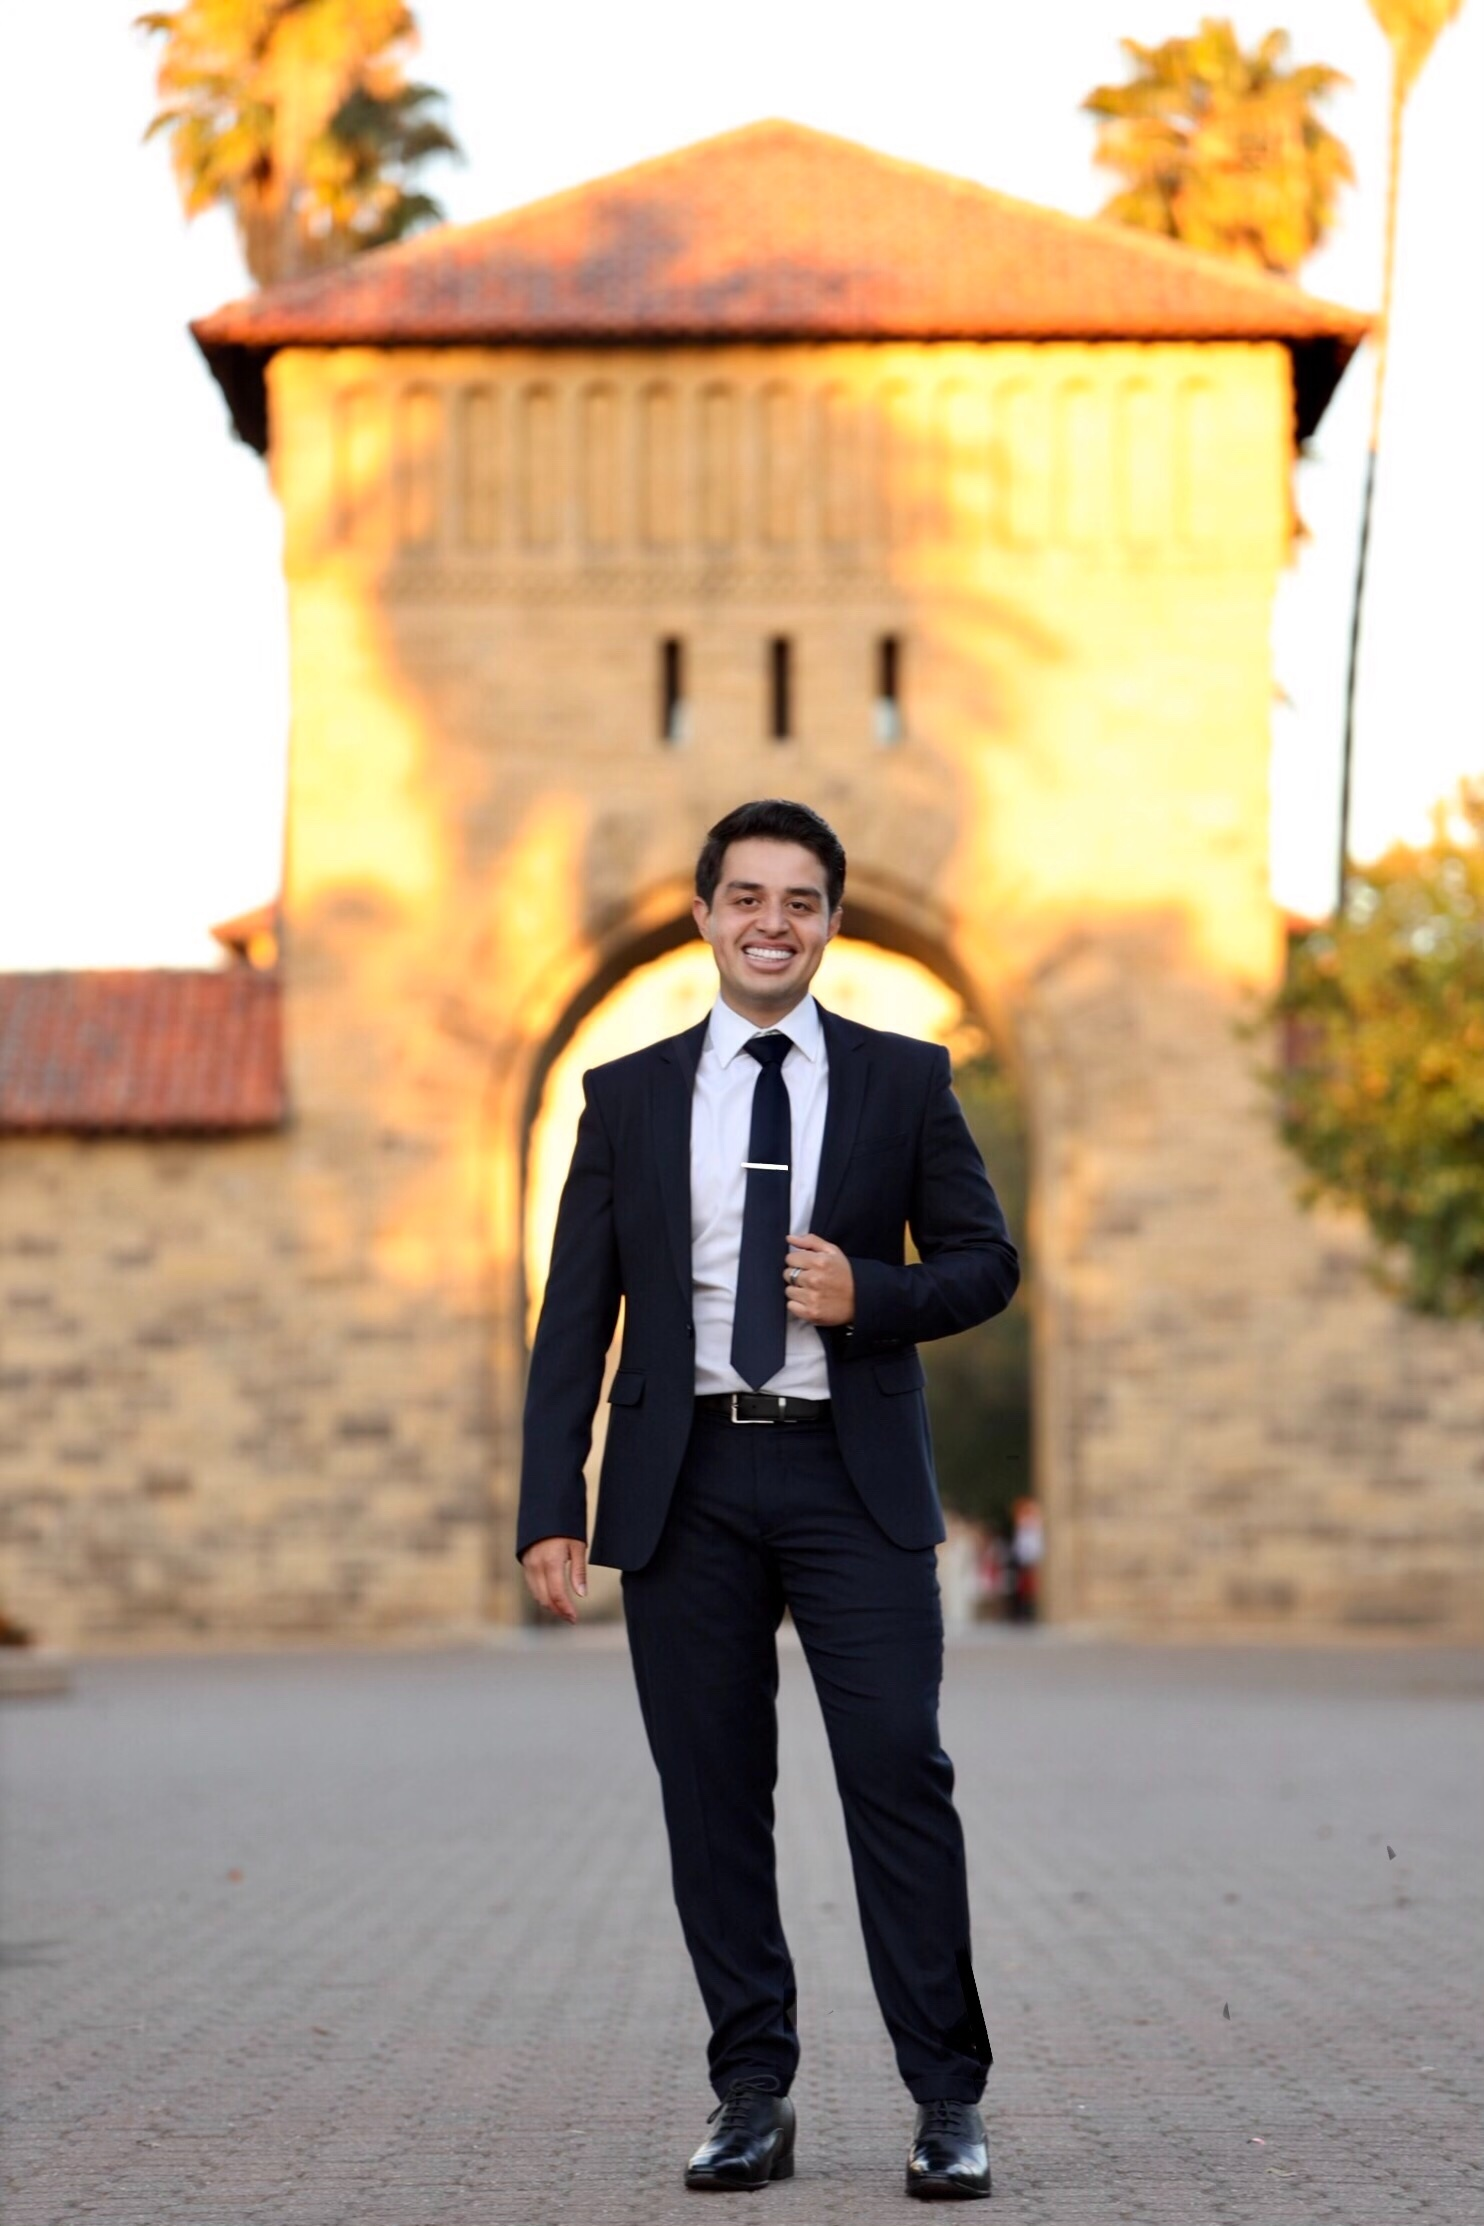
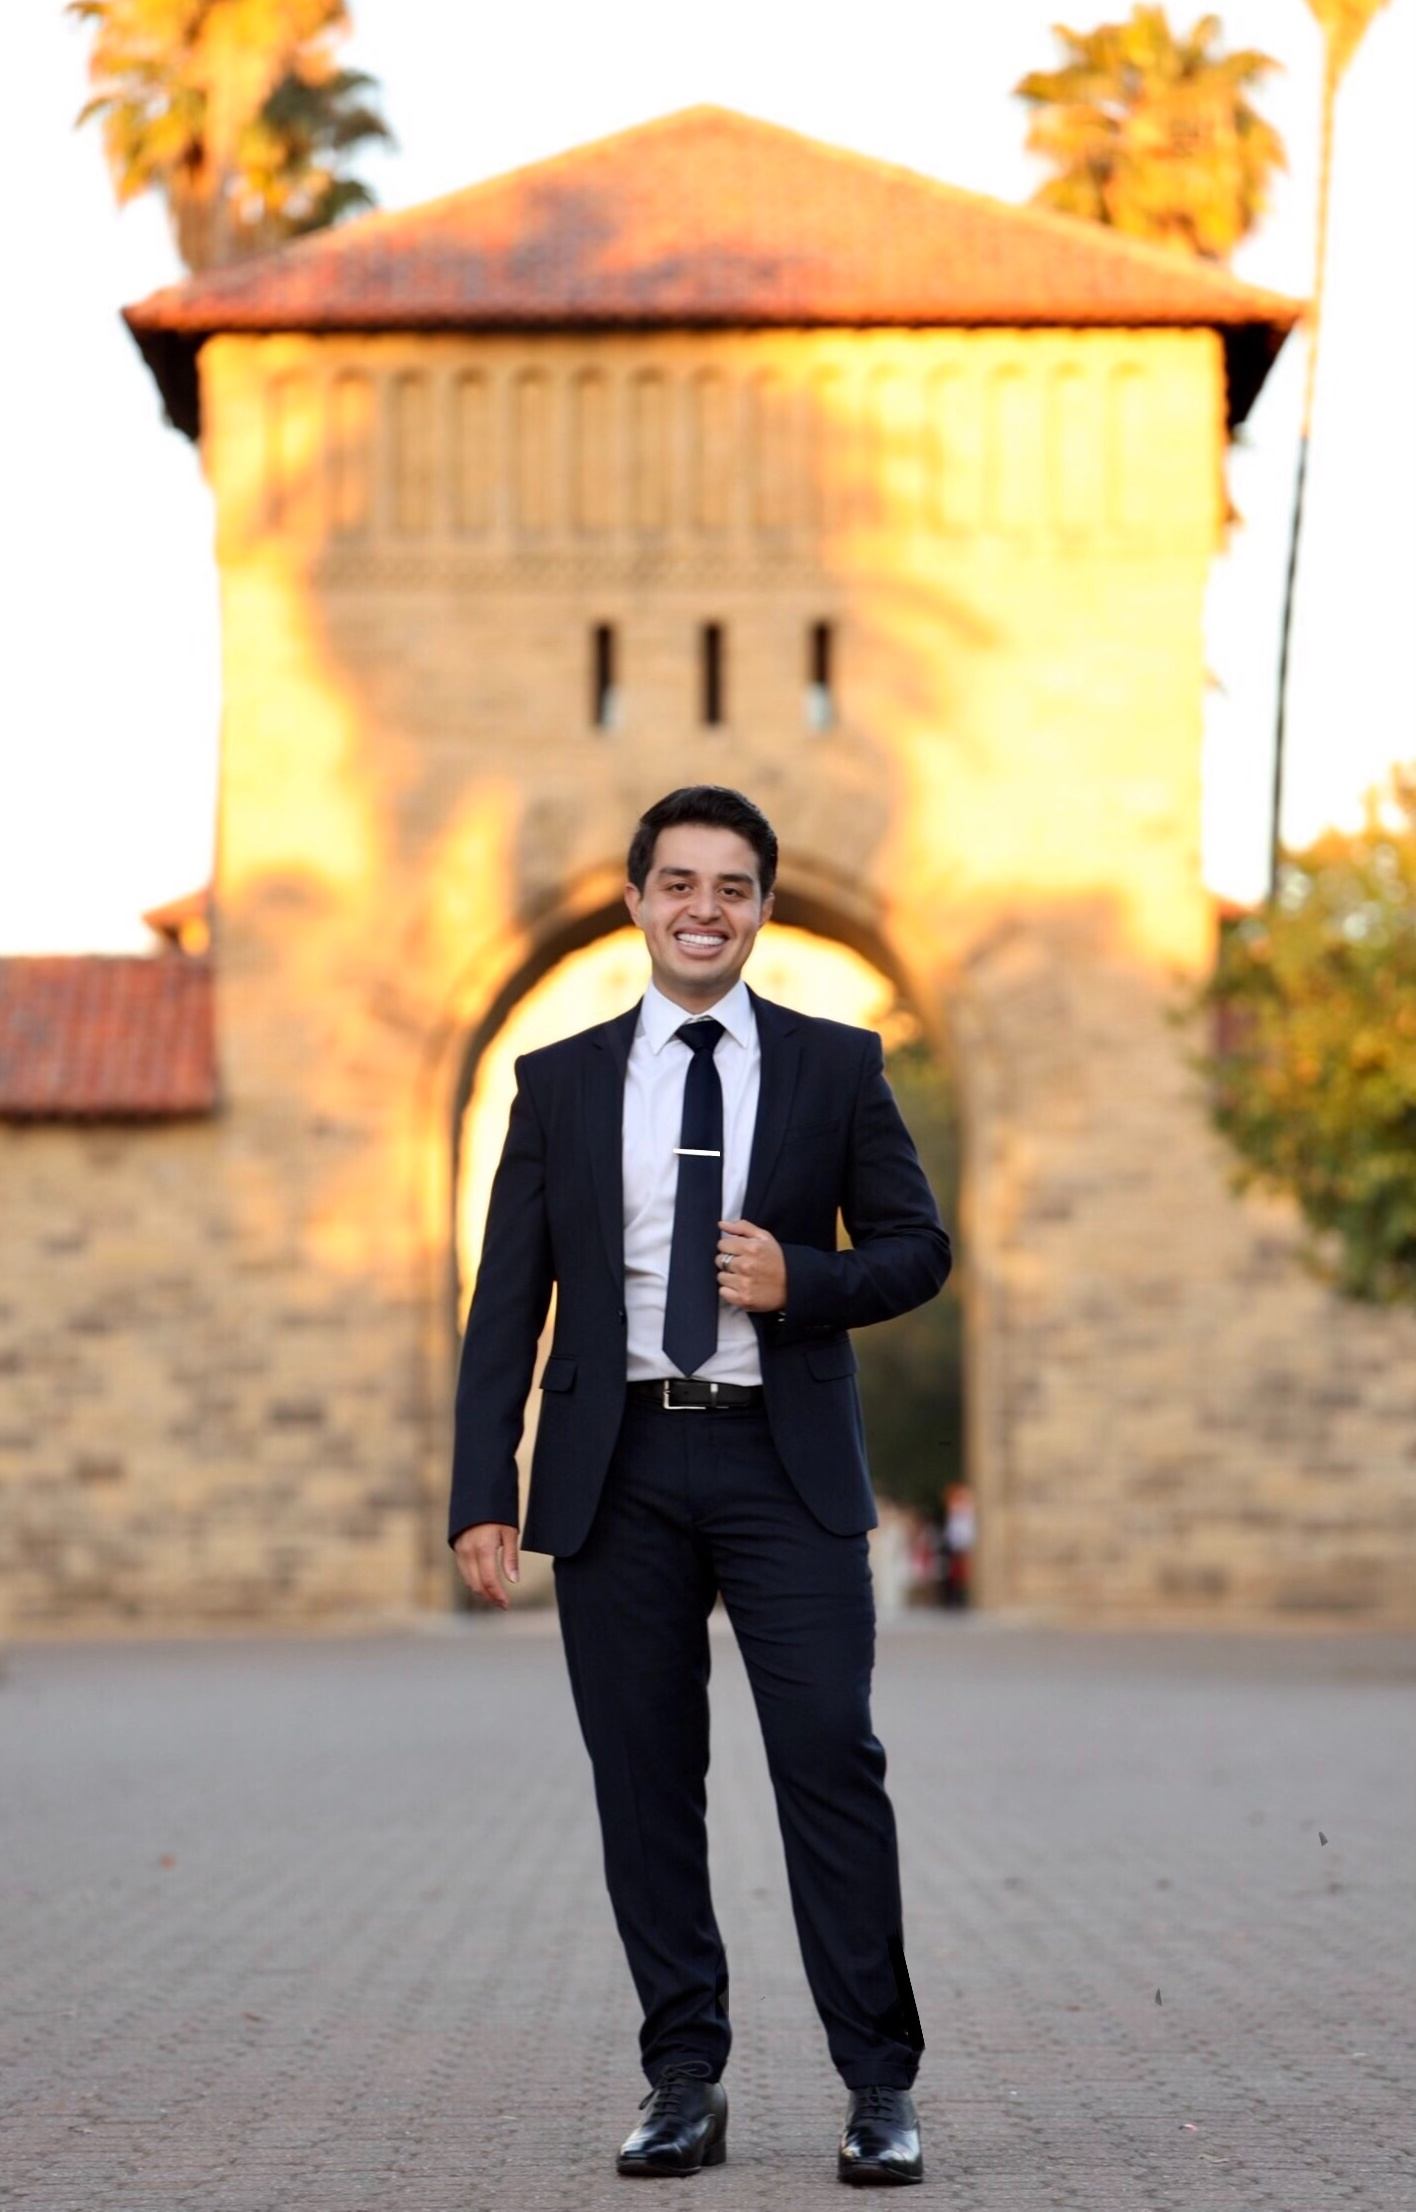
About Me Page Updates

diff --git a/index.html b/index.html
@@ -24,7 +24,7 @@
 							<section class="panel banner right">
 								<div class="content color0 span-3-75">
 									<h1 class="major">Hello, my name is<br/>
-									Gabriel Perez</h1>
+									Gabriel Perez!</h1>
 									<p>I am a <strong>Mechanical Engineer</strong>, with a passion for designing <strong>Robots</strong> and <strong> Autonomous Systems</strong> . Keep scrolling to learn a little bit more about me :)</p>
 									<ul class="actions">
 										<li><a href="#first" class="button primary color1 circle icon solid fa-angle-right">Next</a></li>
@@ -38,11 +38,16 @@
 						<!-- Panel (Spotlight) -->
 							<section class="panel spotlight medium right" id="first">
 								<div class="content span-7">
-									<h2 class="major">Sed etiam aenean</h2>
-									<p>Mauris et ligula arcu. Proin dapibus convallis accumsan. Lorem maximus hendrerit orci, sit amet elementum massa hendrerit sed. Donec et ullamcorper ligula. Suspendisse amet potenti. Ut pretium libero eleifend euismod sed tristique. Quisque dictum magna risus, id ultricies justo sagittis vitae. Sed id odio tempor, porttitor elit amet, gravida hendrerit fringilla lorem ipsum dolor.</p>
+									<h2 class="major">About Me</h2>
+									<h3>Education</h3>
+									<p><strong>Stanford University</strong> 2017 - 2021</br> BS Mechanial Engineering -- Dynamic Systems and Controls</p>
+									<h3>Work Experience</h3>
+									<p><strong>MathWorks</strong> August 2021 - Present</br> Engineering Development Group -- Application Engineer</p>
+									<p><strong>General Motors</strong> June - September 2020</br>Vehicle Interiors -- Project Management Intern</p> 
+									<p><strong>Engineers for a Sustainable World</strong> January - August 2019</br> Archaeological Robotics -- Mechatronics Intern</p>
 								</div>
 								<div class="image filtered tinted" data-position="top left">
-									<img src="images/pic02.jpg" alt="" />
+									<img src="images/about_me.jpg" alt="" />
 								</div>
 							</section>
 
@@ -83,7 +88,9 @@
 								</div>
 								<div class="gallery">
 									<div class="group span-3">
-										<a href="images/gallery/fulls/01.jpg" class="image filtered span-3" data-position="bottom"><img src="images/gallery/thumbs/01.jpg" alt="" /></a>
+										
+										<a href="images/gallery/fulls/trvl_channel.png" class="image filtered span-3" data-position="bottom"><img src="images/gallery/fulls/trvl_channel.png" alt="" /></a>
+										
 										<a href="images/gallery/fulls/02.jpg" class="image filtered span-1-5" data-position="center"><img src="images/gallery/thumbs/02.jpg" alt="" /></a>
 										<a href="images/gallery/fulls/03.jpg" class="image filtered span-1-5" data-position="bottom"><img src="images/gallery/thumbs/03.jpg" alt="" /></a>
 									</div>
